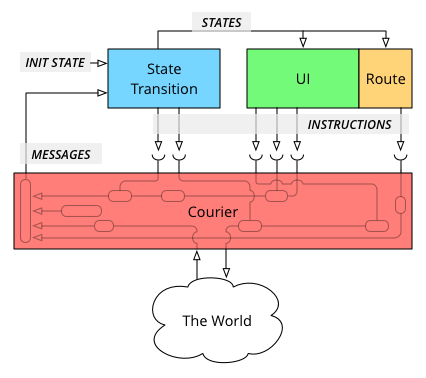
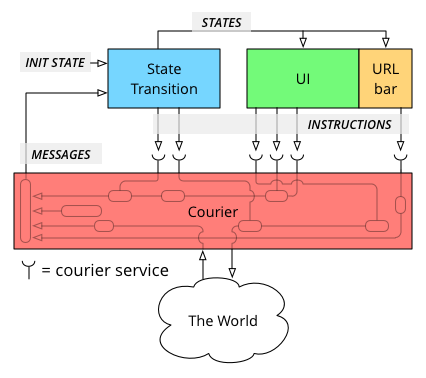
Extend example with hash routing and comments.

diff --git a/src/js/main.jsx b/src/js/main.jsx
@@ -1,36 +1,83 @@
 var Kefir = require("kefir");
 var React = require("react");
 
-courier = {};
-courier.add = Kefir.pool();
-courier.reset = Kefir.pool();
-courier.messages = Kefir.merge(
-    [ courier.add.map(function() { return "add"; })
-    , courier.reset.debounce(750).map(function() { return "reset"; })
-    ]);
+/* COURIER */
 
-var initState = { count: 0 };
+/* Courier services are defined as Kefir pools so that we can plug in streams
+ * and properties dynamically from the UI and the transition function. The
+ * courier composes a network of streams which results in a single messages
+ * stream to be used together with the transition function to generate the
+ * state property. */
+
+var services = {};
+services.hash = Kefir.pool();
+services.add = Kefir.pool();
+services.reset = Kefir.pool();
+
+messages = Kefir.merge(
+    [ services.add.map(function() { return { type: "add" }; })
+    , services.reset.debounce(1000).map(function() { return { type: "reset" }; })
+    , services.hash.map(function(hash) { return { type: "hash", hash: hash }; })
+    ]).log("MESSAGE");
+
+/* STATE TRANSITION */
+
+/* The transition function defines how the application progresses. It takes the
+ * previous state, initially initState, and a message and produces the state
+ * property. */
+
+var initState = { count: 0, hash: "0" };
 function transition(state, message) {
-    switch (message) {
+
+    switch (message.type) {
         case "add":
-            courier.reset.plug(Kefir.constant(true));
-            return { count: state.count + 1 }; break;
+            services.reset.plug(Kefir.constant(true));
+            return { count: state.count + 1, hash: Number(state.count + 1).toString() }; break;
         case "reset":
             return initState; break;
+        case "hash":
+
+            /* In a realistic application you would use a routing library to
+             * parse the hash (or URL if using History API) and perform the
+             * appropriate state transition based on that. */
+
+            var count = parseInt(message.hash);
+            if (count !== 0) services.reset.plug(Kefir.constant(true));
+            if (isNaN(count)) return state; // Reject hash change
+            return { count: count, hash: message.hash };
+            break;
         default:
             return state;
     }
 };
 
+/* UI */
+
+/* The user interface is a React component which gets the courier services and
+ * the states property as props. It subscribes to the states property so it can
+ * update its internal state whenever the application state changes. It sends
+ * interactions to the courier services based on user interaction events. */
+
 var UI = React.createClass({
     componentWillMount: function() {
-        /* Since states is a Kefir property, onValue will fire
-           synchronously with the initial state which means we
-           don't need getInitialState. */
+
+        /* Since states is a Kefir property, onValue will fire synchronously
+         * with the initial state which means we don't need getInitialState. */
+
         this.props.states.onValue(this.setState.bind(this));
+
+        /* There is nothing stopping subcomponents from managing their own
+         * state, but only if that state is truly local to that component. If
+         * the state is used by parent or sibling components, it should be
+         * handled in the state transition function. */
     },
     add: function(event) {
-        this.props.courier.add.plug(Kefir.constant(true));
+
+        /* When the UI captures the click event it sends an instruction to the
+         * courier's add service, which will result in a message, a state
+         * transition, and a .setState call. */
+
+        this.props.services.add.plug(Kefir.constant(true));
     },
     render: function() {
         return (
@@ -42,6 +89,79 @@ var UI = React.createClass({
     }
 });
 
-var states = courier.messages.scan(transition, initState);
-React.render(<UI courier={courier} states={states} />,
+/* URL */
+
+function initHash(hashService, hashStates) {
+
+    /* NOTE: This function would not be written from scratch in each
+     * application, but provided by a library as it is not domain specific. */
+     
+    /* This function sets up basic URL hash handling, allowing us to treat hash
+     * changes just like other UI changes in the transition function and the
+     * courier. A more advanced version could use the History API to implement
+     * similar functionality.
+     *
+     * We make sure the state's hash is reflected in the browser and we send
+     * instructions to the courier's hash service for hash changes triggered by
+     * the user or browser so the transition function can handle them.
+     *
+     * You should think of the browser address bar as a special UI component
+     * that renders itself based on the state's hash property and produces
+     * instructions for the courier's hash service when the user changes it. */
+
+    /* muteNext mutes the next hashchange event and is used to avoid an
+     * instruction for state transition induced hash changes. */
+
+    var muteNext = false;
+    function mute() {
+        if (muteNext) {
+            muteNext = false;
+            return false;
+        } else {
+            return true;
+        }
+    };
+
+    function getHash() { return window.location.hash.replace(/^#/, ""); }
+    function setHash(hash) {
+        muteNext = (hash !== getHash());
+        window.location.hash = hash;
+    }
+
+    hashService.plug(Kefir.fromEvents(window, "hashchange", getHash).filter(mute));
+
+    /* To keep the initState and transition function unifrom we send the
+     * initial browser hash as a normal instruction. To achieve this, we first
+     * handle the initialHash. If it's empty we set the hash to the hash
+     * specified in the initial state, otherwise we send the hash to the
+     * courier's hash service so it can be handled by the transition function.
+     * 
+     * Because of how Kefir manages activation/deactivation, we set up the skip
+     * subscriber first so that hashService stays activated (we assume
+     * hashStates is a function of hashService). */
+
+    hashStates.skip(1).onValue(setHash);
+    hashStates.take(1).onValue(function (initHash) {
+        var hash = getHash();
+        if (hash === "") { setHash(initHash); }
+        else { hashService.plug(Kefir.constant(hash)); }
+    });
+};
+
+/* INITIALIZATION */
+
+/* Fold (scan in Kefir parlance) messages with the transition function to
+ * produce a states property. */
+
+var states = messages.scan(transition, initState);
+
+/* Initialize hash handling by passing the courier's hash service and a state
+ * hash property. */
+
+initHash(services.hash, states.map(function(s) { return s.hash; }));
+
+/* Initialize the UI by using React's render function, passing the courier's
+ * services and the states property as props. */
+
+React.render(<UI services={services} states={states} />,
              document.getElementById('app'));

diff --git a/README.md b/README.md
@@ -2,18 +2,24 @@ Minimal Courier architecture example
 ====================================
 
 The repository demonstrates a minimal example of a client architecture
-described briefly in
-http://baatz.io/posts/courier-reactive-react-architecture/, using reactive
-programming (dataflow) and  immediate mode UI rendering:
+described at http://baatz.io/posts/courier-reactive-react-architecture/, using
+reactive programming (dataflow) and immediate mode UI rendering:
 
 ![A diagram of the courier architecture](courier.png)
 
+The code is heavily commented and intended to be easy to skim. In a realistic
+application, the different parts would be split into their own modules / files,
+but I've kept them in one file to make it easier to get an overview.
+
 This example uses Kefir and React, but you can use whichever libraries you
-prefer.
+prefer. To try the example, do:
 
     npm install .
     npm start
 
-If you want to experiment, you do `node_modules/gulp/bin/gulp.js watch` to run
-a watcher. You can also get live reload with the LiveReload [Chrome
+If you want to experiment, you run a watcher with:
+
+    node_modules/gulp/bin/gulp.js watch
+
+You can also get live reload with the LiveReload [Chrome
 extension](https://chrome.google.com/webstore/detail/livereload/jnihajbhpnppcggbcgedagnkighmdlei).
